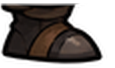
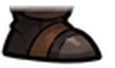
6 카르덴: 다리를 바짓단~부츠 바지 통으로(떨어져 보이지 않게), 찌르기 팔뚝을 윗팔 앞으로
- rig.js opt-in legs.tube: 엉덩이→발목 곧은 바지 통(굵기 고정) + 부츠, footReach: 동작 중 발이 다리 길이 밖이면 엉덩이 쪽으로
- 바지 통 그림(shinP)은 원화 바지 색으로, 부츠 위 잘려 온 네모 띠 정리
- drawStaff: 윗팔 < 팔뚝 < 어깨갑 (DHL 01:19 '손-팔꿈치를 어깨-팔꿈치보다 위로')
- 검사 16장면 통과

Claude-Session: https://claude.ai/code/session_015ytCrWApV92AMmnGMogyWc

Changed region(s): [[0.0, 0.0294, 0.6783, 0.2059]]

diff --git a/assets/rig/carden-rust/rig.def.js b/assets/rig/carden-rust/rig.def.js
@@ -1,1 +1,1 @@
-window.MR_RIG_DEFS=window.MR_RIG_DEFS||{};window.MR_RIG_DEFS['carden-rust']={"name":"carden-rust","version":"f2dde157","units":"rig px (reference x2)","refOrigin":[234.0,500.0],"refScale":2.0,"refLift":0,"parts":{"hips":{"src":"parts/hips.png","pivot":[73.0,14.1],"scale":2.3575},"pouch":{"src":"parts/pouch.png","pivot":[22.0,4.0],"scale":2.05},"torso":{"src":"parts/torso.png","pivot":[112.8,114.7],"scale":2.05},"head":{"src":"parts/head.png","pivot":[60.9,95.5],"scale":2.0581},"tuftL":{"src":"parts/tuftL.png","pivot":[102.1,48.4],"scale":2.05},"tuftR":{"src":"parts/tuftR.png","pivot":[8.4,31.0],"scale":2.05},"beard":{"src":"parts/beard.png","pivot":[80.5,12.0],"scale":2.0102},"armU":{"src":"parts/armU.png","pivot":[22.0,3.0],"scale":2.05},"armL":{"src":"parts/armL.png","pivot":[57.0,3.0],"scale":2.05,"alt":"armLF"},"pauldron":{"src":"parts/pauldron.png","pivot":[55.4,34.9],"scale":2.05},"armF":{"src":"parts/armF.png","pivot":[19.0,2.0],"scale":2.05},"foreF":{"src":"parts/foreF.png","pivot":[17.0,2.0],"scale":2.05},"fistF":{"src":"parts/fistF.png","pivot":[136.8,49.5],"scale":1.0},"weapon":{"src":"parts/weapon.png","pivot":[45.0,299.9],"scale":2.05,"tips":[[16.0,6.0],[58.0,6.0]]},"armLF":{"src":"parts/armLF.png","pivot":[46.2,10.6],"scale":2.05,"grip":[36.7,105.8]},"handL":{"src":"parts/handL.png","pivot":[280,146.5],"scale":0.5376,"shaftDir":[1,0],"wrist":[65,297],"toElbow":[-0.8,0.6]},"handR":{"src":"parts/handR.png","pivot":[191,241.5],"scale":0.5376,"shaftDir":[1,0],"wrist":[6,203],"toElbow":[-0.968,-0.252]},"armLS":{"src":"parts/armLS.png","pivot":[46.2,10.6],"scale":2.05,"noAxis":true,"grip":[40.0,61]},"thighN":{"src":"parts/thighN.png","pivot":[0,0],"scale":1},"thighF":{"src":"parts/thighF.png","pivot":[0,0],"scale":1},"shinN":{"src":"parts/shinN.png","pivot":[0,0],"scale":1},"shinF":{"src":"parts/shinF.png","pivot":[0,0],"scale":1},"boot":{"src":"parts/bootR.png","pivot":[42,31],"scale":1.12},"face_happy":{"src":"parts/face_happy.png","pivot":[19.9,76.5],"scale":2.0581},"face_angry":{"src":"parts/face_angry.png","pivot":[14.9,76.5],"scale":2.0581},"face_focus":{"src":"parts/face_focus.png","pivot":[19.9,76.5],"scale":2.0581},"face_sad":{"src":"parts/face_sad.png","pivot":[19.9,76.5],"scale":2.0581},"face_shout":{"src":"parts/face_shout.png","pivot":[19.9,76.5],"scale":2.0581},"skirt":{"src":"parts/pants.png","pivot":[208.0,0.0],"scale":1,"mesh":{"cols":8,"rows":6}},"shinR":{"src":"parts/shinR.png","pivot":[0,0],"scale":1}},"bones":[{"name":"root","parent":null,"pos":[0,0]},{"name":"hip","parent":"root","pos":[12.0,-230.0]},{"name":"skirt","parent":"hip","pos":[0.0,0.0],"part":"skirt"},{"name":"cape","parent":"hip","pos":[-4.0,-266.0]},{"name":"hips","parent":"hip","pos":[14.8,50.8],"rot":0.0698,"part":"hips"},{"name":"pouch","parent":"hip","pos":[-102.6,-25.7],"rot":0.192,"part":"pouch"},{"name":"torso","parent":"hip","pos":[0.0,0.0],"part":"torso"},{"name":"head","parent":"torso","pos":[-4.0,-266.0],"rot":-0.0335,"part":"head"},{"name":"tuftL","parent":"head","pos":[-60.8,-116.0],"rot":-0.0713,"part":"tuftL"},{"name":"tuftR","parent":"head","pos":[118.2,-132.0],"rot":0.1905,"part":"tuftR"},{"name":"beard","parent":"head","pos":[88.3,1.1],"rot":0.0198,"part":"beard"},{"name":"armU","parent":"torso","pos":[-150.0,-194.0],"rot":0.9969,"part":"armU"},{"name":"armL","parent":"armU","pos":[-0.0,47.3],"rot":-0.6478,"part":"armL"},{"name":"pauldron","parent":"torso","pos":[-150.0,-194.0],"rot":0.0698,"part":"pauldron"},{"name":"armF","parent":"torso","pos":[220.0,-170.0],"rot":0.4117,"part":"armF"},{"name":"foreF","parent":"armF","pos":[0.0,98.4],"rot":-2.4941,"part":"foreF"},{"name":"fistF","parent":"foreF","pos":[0.0,102.5],"part":"fistF"},{"name":"weapon","parent":"fistF","pos":[-12.8,80.0],"rot":2.0998,"part":"weapon"},{"name":"handL","parent":"weapon","pos":[0,0],"rot":-1.5882,"part":"handL"},{"name":"handR","parent":"weapon","pos":[0,0],"rot":-1.5882,"part":"handR"}],"legs":{"hip":[0,70],"thigh":80,"shin":78,"thighImg":{"part":"thighN","a":[40,4],"b":[36,55],"w":1.33},"shinImg":{"part":"shinN","a":[19,3],"b":[18,43],"w":1.385},"boot":{"part":"boot","sole":[[-37,28],[-30,33],[45,33],[65,22]],"ankleRange":[-0.85,0.95]},"near":{"x":-130,"shade":0,"thighImg":{"part":"thighN","a":[40,4],"b":[36,55],"w":0.001},"shinImg":{"part":"shinR","a":[26,0],"b":[26,72],"w":1.034}},"far":{"x":110,"shade":0.22,"thighImg":{"part":"thighF","a":[37,4],"b":[40,55],"w":0.001},"shinImg":{"part":"shinR","a":[26,0],"b":[26,72],"w":1.034}}},"draw":["cape","legFar","legNear","armF","skirt","torso","pouch","foreF","tuftL","tuftR","head","beard","headFront","weapon","fistF","handL","armU","armL","pauldron","handR"],"hidden":["handL","handR"],"faces":{"happy":"face_happy","angry":"face_angry","focus":"face_focus","sad":"face_sad","shout":"face_shout","effort":"face_angry"},"idleStance":{"near":-20,"far":-5},"gait":{"stance":0.18,"strideBase":20,"strideK":0.1,"hipBase":0,"bob":12,"lean":0.12,"waddle":0.05,"headBob":4,"kneeLift":0.25,"heelKick":0.05,"dropCap":20,"swingReach":0.05,"landAng":-0.08,"angK":0.45,"elbowRun":0.8},"weaponRaise":40,"releaseOpen":true,"dropLift":12,"follow":[{"bone":"pauldron","src":"armU","k":0.3}],"rearBlend":0.1,"runSlide":0,"upperRun":55,"hemGain":0.15,"seamInterior":true,"carryDrop":9,"weaponFloor":2,"runForeBend":-0.35,"wristRange":0.55,"runTilt":0,"bounce":[{"bone":"tuftL","stiff":160,"damp":7,"y":0.15,"rot":-0.006,"max":12},{"bone":"tuftR","stiff":170,"damp":7,"y":0.15,"rot":0.006,"max":12},{"bone":"beard","stiff":260,"damp":10,"y":0.1,"rot":0.002,"max":6}],"metrics":{"bodyHeight":714,"heightWithWeapon":1016,"note":"rig units. bodyHeight = 옆머리 위 ~ 발바닥(대기), 무기 제외","shaftWidth":52,"fistWidth":76,"forearmThickness":60},"ui":{"attack":"thrust","stillReady":{"t":0.22,"cut":0.36}},"note":"6 카르덴. 8 러스트 니콜(rust-fork-girl v15) 뼈대·동작 방식(봉 계열 기준). 다른 점: 짧은 다리·넓은 발, 긴 렌치 봉(쥔 손이 몸에서 멂), 옆머리 2·수염(머리 뼈, 출렁임), 고글(깜빡임 없음), 바지 엉덩이(hips) 조각","headFront":{"clip":[[0,0],[1,0],[0,1]],"facesFree":true},"hemRun":{"lift":10,"knee":0.5,"heel":0.3,"reach":0.2},"hemLimit":{"up":0.25,"x":0.3},"actions":{"thrust":{"kind":"staff","dur":0.8,"hitAt":0.3,"cancelAt":0.54,"w":[[0,0,"io"],[0.09,1],[0.62,1,"io"],[0.79,0]],"ang":[[0,0.05,"o"],[0.06,1.4,"io"],[0.12,1.57],[0.62,1.57,"io"],[0.71,0.85,"io"],[0.79,0.05]],"gx":[[0,200,"io"],[0.18,234.0625,"s"],[0.24,183.75],[0.3,294.375,"o"],[0.42,268.75,"io"],[0.62,250,"io"],[0.79,200]],"gy":[[0,-30,"io"],[0.03,-170,"io"],[0.18,-59.53125],[0.24,-57.5,"io"],[0.3,-76.5625],[0.42,-76.875,"io"],[0.71,-170,"io"],[0.79,-30]],"gap":[[0,180],[0.18,214.6875,"io"],[0.24,159.375,"io"],[0.3,199.375,"io"],[0.42,182.5,"io"],[0.79,180]],"sh":[[0,0,"io"],[0.15,1,"s"],[0.18,1.3046874999999998,"io"],[0.24,1.2953124999999999,"io"],[0.3,1.3,"io"],[0.42,1.2999999999999998,"io"],[0.62,1,"io"],[0.79,0]],"trail":[[0,0],[0.19,0,"lin"],[0.22,1],[0.34,1,"lin"],[0.41,0]],"shake":[[0,0],[0.3,0,"lin"],[0.31,1],[0.42,0]],"face":[[0,"focus"],[0.19,"angry"],[0.5,"focus"],[0.7,null]],"breath":[[0,0,"io"],[0.16,1,"o"],[0.3,-0.4,"io"],[0.48,-0.6,"io"],[0.8,0]],"hipX":[[0,0,"io"],[0.18,-13.776250000000005,"s"],[0.24,44.817499999999995,"io"],[0.3,170.00875],[0.42,75.185,"io"],[0.7,0]],"hipY":[[0,0,"io"],[0.18,-27.1875,"s"],[0.24,-6.875,"io"],[0.3,8.1875],[0.42,26.5625,"io"],[0.7,-1,"io"],[0.75,3,"io"],[0.8,0]],"lean":[[0,0,"io"],[0.18,-0.009062500000000005,"s"],[0.24,-0.047500000000000014,"io"],[0.3,0.08499999999999999],[0.42,0.09593750000000015,"io"],[0.7,0]],"head":[[0,0,"io"],[0.18,0.16625000000000004,"s"],[0.24,-0.002499999999999956,"io"],[0.3,-0.2778125],[0.42,-0.03828124999999995,"io"],[0.7,0]],"farDx":[[0,0,"io"],[0.18,-24,"s"],[0.24,60,"io"],[0.3,215],[0.46,215,"io"],[0.64,0]],"nearDx":[[0,0,"io"],[0.15,-10,"io"],[0.18,-30,"io"],[0.24,-10,"io"],[0.3,90],[0.36,90,"io"],[0.44,10],[0.62,10,"io"],[0.76,0]],"farLift":[[0,0],[0.18,0,"io"],[0.24,19.84,"io"],[0.3,0],[0.46,0,"io"],[0.55,14.88,"io"],[0.64,0]],"nearLift":[[0,0],[0.03,0,"io"],[0.09,9.92,"io"],[0.15,0],[0.22,0,"io"],[0.27,14,"io"],[0.3,0],[0.36,0,"io"],[0.4,10,"io"],[0.44,0],[0.62,0,"io"],[0.69,8.68,"io"],[0.76,0]],"farAng":[[0,0],[0.21,0,"io"],[0.27,-0.24,"io"],[0.33,0]],"nearAng":[[0,0],[0.21,0,"io"],[0.31,0.2],[0.44,0.18,"io"],[0.6,0]],"twist":[[0,0,"io"],[0.18,-0.7,"s"],[0.3,0.7],[0.42,0.6,"io"],[0.7,0]],"kneeOut":1}},"staffKey":{"sleeve":"armLS","shoulder":[15,10],"leadOn":0.12,"pauldronFollow":0.25,"pauldronRot":0.12,"upperLen":78,"fit":0.93,"fitMin":0.85,"fitMax":1.7,"foreFromHand":true,"foreK":1.25},"drawStaff":["cape","legFar","legNear","armF","skirt","torso","pouch","foreF","tuftL","tuftR","head","beard","headFront","weapon","armL","armU","pauldron","fistF","handL","handR"]};
+window.MR_RIG_DEFS=window.MR_RIG_DEFS||{};window.MR_RIG_DEFS['carden-rust']={"name":"carden-rust","version":"8c6f0c27","units":"rig px (reference x2)","refOrigin":[234.0,500.0],"refScale":2.0,"refLift":0,"parts":{"hips":{"src":"parts/hips.png","pivot":[73.0,14.1],"scale":2.3575},"pouch":{"src":"parts/pouch.png","pivot":[22.0,4.0],"scale":2.05},"torso":{"src":"parts/torso.png","pivot":[112.8,114.7],"scale":2.05},"head":{"src":"parts/head.png","pivot":[60.9,95.5],"scale":2.0581},"tuftL":{"src":"parts/tuftL.png","pivot":[102.1,48.4],"scale":2.05},"tuftR":{"src":"parts/tuftR.png","pivot":[8.4,31.0],"scale":2.05},"beard":{"src":"parts/beard.png","pivot":[80.5,12.0],"scale":2.0102},"armU":{"src":"parts/armU.png","pivot":[22.0,3.0],"scale":2.05},"armL":{"src":"parts/armL.png","pivot":[57.0,3.0],"scale":2.05,"alt":"armLF"},"pauldron":{"src":"parts/pauldron.png","pivot":[55.4,34.9],"scale":2.05},"armF":{"src":"parts/armF.png","pivot":[19.0,2.0],"scale":2.05},"foreF":{"src":"parts/foreF.png","pivot":[17.0,2.0],"scale":2.05},"fistF":{"src":"parts/fistF.png","pivot":[136.8,49.5],"scale":1.0},"weapon":{"src":"parts/weapon.png","pivot":[45.0,299.9],"scale":2.05,"tips":[[16.0,6.0],[58.0,6.0]]},"armLF":{"src":"parts/armLF.png","pivot":[46.2,10.6],"scale":2.05,"grip":[36.7,105.8]},"handL":{"src":"parts/handL.png","pivot":[280,146.5],"scale":0.5376,"shaftDir":[1,0],"wrist":[65,297],"toElbow":[-0.8,0.6]},"handR":{"src":"parts/handR.png","pivot":[191,241.5],"scale":0.5376,"shaftDir":[1,0],"wrist":[6,203],"toElbow":[-0.968,-0.252]},"armLS":{"src":"parts/armLS.png","pivot":[46.2,10.6],"scale":2.05,"noAxis":true,"grip":[40.0,61]},"thighN":{"src":"parts/thighN.png","pivot":[0,0],"scale":1},"thighF":{"src":"parts/thighF.png","pivot":[0,0],"scale":1},"shinN":{"src":"parts/shinN.png","pivot":[0,0],"scale":1},"shinF":{"src":"parts/shinF.png","pivot":[0,0],"scale":1},"boot":{"src":"parts/bootR.png","pivot":[42,31],"scale":1.12},"face_happy":{"src":"parts/face_happy.png","pivot":[19.9,76.5],"scale":2.0581},"face_angry":{"src":"parts/face_angry.png","pivot":[14.9,76.5],"scale":2.0581},"face_focus":{"src":"parts/face_focus.png","pivot":[19.9,76.5],"scale":2.0581},"face_sad":{"src":"parts/face_sad.png","pivot":[19.9,76.5],"scale":2.0581},"face_shout":{"src":"parts/face_shout.png","pivot":[19.9,76.5],"scale":2.0581},"skirt":{"src":"parts/pants.png","pivot":[208.0,0.0],"scale":1,"mesh":{"cols":8,"rows":6}},"shinR":{"src":"parts/shinR.png","pivot":[0,0],"scale":1},"shinP":{"src":"parts/shinP.png","pivot":[0,0],"scale":1}},"bones":[{"name":"root","parent":null,"pos":[0,0]},{"name":"hip","parent":"root","pos":[12.0,-230.0]},{"name":"skirt","parent":"hip","pos":[0.0,0.0],"part":"skirt"},{"name":"cape","parent":"hip","pos":[-4.0,-266.0]},{"name":"hips","parent":"hip","pos":[14.8,50.8],"rot":0.0698,"part":"hips"},{"name":"pouch","parent":"hip","pos":[-102.6,-25.7],"rot":0.192,"part":"pouch"},{"name":"torso","parent":"hip","pos":[0.0,0.0],"part":"torso"},{"name":"head","parent":"torso","pos":[-4.0,-266.0],"rot":-0.0335,"part":"head"},{"name":"tuftL","parent":"head","pos":[-60.8,-116.0],"rot":-0.0713,"part":"tuftL"},{"name":"tuftR","parent":"head","pos":[118.2,-132.0],"rot":0.1905,"part":"tuftR"},{"name":"beard","parent":"head","pos":[88.3,1.1],"rot":0.0198,"part":"beard"},{"name":"armU","parent":"torso","pos":[-150.0,-194.0],"rot":0.9969,"part":"armU"},{"name":"armL","parent":"armU","pos":[-0.0,47.3],"rot":-0.6478,"part":"armL"},{"name":"pauldron","parent":"torso","pos":[-150.0,-194.0],"rot":0.0698,"part":"pauldron"},{"name":"armF","parent":"torso","pos":[220.0,-170.0],"rot":0.4117,"part":"armF"},{"name":"foreF","parent":"armF","pos":[0.0,98.4],"rot":-2.4941,"part":"foreF"},{"name":"fistF","parent":"foreF","pos":[0.0,102.5],"part":"fistF"},{"name":"weapon","parent":"fistF","pos":[-12.8,80.0],"rot":2.0998,"part":"weapon"},{"name":"handL","parent":"weapon","pos":[0,0],"rot":-1.5882,"part":"handL"},{"name":"handR","parent":"weapon","pos":[0,0],"rot":-1.5882,"part":"handR"}],"legs":{"hip":[0,70],"thigh":80,"shin":78,"thighImg":{"part":"thighN","a":[40,4],"b":[36,55],"w":1.33},"shinImg":{"part":"shinN","a":[19,3],"b":[18,43],"w":1.385},"boot":{"part":"boot","sole":[[-37,28],[-30,33],[45,33],[65,22]],"ankleRange":[-0.85,0.95]},"near":{"x":-130,"shade":0,"thighImg":{"part":"thighN","a":[40,4],"b":[36,55],"w":0.001},"shinImg":{"part":"shinP","a":[52.5,0],"b":[52.5,106],"w":1.196}},"far":{"x":110,"shade":0.22,"thighImg":{"part":"thighF","a":[37,4],"b":[40,55],"w":0.001},"shinImg":{"part":"shinP","a":[52.5,0],"b":[52.5,106],"w":1.196}},"tube":{"part":"shinP","a":[52.5,0],"b":[52.5,106],"k":0.88}},"draw":["cape","legFar","legNear","armF","skirt","torso","pouch","foreF","tuftL","tuftR","head","beard","headFront","weapon","fistF","handL","armU","armL","pauldron","handR"],"hidden":["handL","handR"],"faces":{"happy":"face_happy","angry":"face_angry","focus":"face_focus","sad":"face_sad","shout":"face_shout","effort":"face_angry"},"idleStance":{"near":-20,"far":-5},"gait":{"stance":0.18,"strideBase":20,"strideK":0.1,"hipBase":0,"bob":12,"lean":0.12,"waddle":0.05,"headBob":4,"kneeLift":0.25,"heelKick":0.05,"dropCap":20,"swingReach":0.05,"landAng":-0.08,"angK":0.45,"elbowRun":0.8},"weaponRaise":40,"releaseOpen":true,"dropLift":12,"follow":[{"bone":"pauldron","src":"armU","k":0.3}],"rearBlend":0.1,"runSlide":0,"upperRun":55,"hemGain":0.15,"seamInterior":true,"carryDrop":9,"weaponFloor":2,"footReach":0.97,"runForeBend":-0.35,"wristRange":0.55,"runTilt":0,"bounce":[{"bone":"tuftL","stiff":160,"damp":7,"y":0.15,"rot":-0.006,"max":12},{"bone":"tuftR","stiff":170,"damp":7,"y":0.15,"rot":0.006,"max":12},{"bone":"beard","stiff":260,"damp":10,"y":0.1,"rot":0.002,"max":6}],"metrics":{"bodyHeight":714,"heightWithWeapon":1016,"note":"rig units. bodyHeight = 옆머리 위 ~ 발바닥(대기), 무기 제외","shaftWidth":52,"fistWidth":76,"forearmThickness":60},"ui":{"attack":"thrust","stillReady":{"t":0.22,"cut":0.36}},"note":"6 카르덴. 8 러스트 니콜(rust-fork-girl v15) 뼈대·동작 방식(봉 계열 기준). 다른 점: 짧은 다리·넓은 발, 긴 렌치 봉(쥔 손이 몸에서 멂), 옆머리 2·수염(머리 뼈, 출렁임), 고글(깜빡임 없음), 바지 엉덩이(hips) 조각","headFront":{"clip":[[0,0],[1,0],[0,1]],"facesFree":true},"hemRun":{"lift":10,"knee":0.5,"heel":0.3,"reach":0.2},"hemLimit":{"up":0.25,"x":0.3},"actions":{"thrust":{"kind":"staff","dur":0.8,"hitAt":0.3,"cancelAt":0.54,"w":[[0,0,"io"],[0.09,1],[0.62,1,"io"],[0.79,0]],"ang":[[0,0.05,"o"],[0.06,1.4,"io"],[0.12,1.57],[0.62,1.57,"io"],[0.71,0.85,"io"],[0.79,0.05]],"gx":[[0,200,"io"],[0.18,234.0625,"s"],[0.24,183.75],[0.3,294.375,"o"],[0.42,268.75,"io"],[0.62,250,"io"],[0.79,200]],"gy":[[0,-30,"io"],[0.03,-170,"io"],[0.18,-59.53125],[0.24,-57.5,"io"],[0.3,-76.5625],[0.42,-76.875,"io"],[0.71,-170,"io"],[0.79,-30]],"gap":[[0,180],[0.18,214.6875,"io"],[0.24,159.375,"io"],[0.3,199.375,"io"],[0.42,182.5,"io"],[0.79,180]],"sh":[[0,0,"io"],[0.15,1,"s"],[0.18,1.3046874999999998,"io"],[0.24,1.2953124999999999,"io"],[0.3,1.3,"io"],[0.42,1.2999999999999998,"io"],[0.62,1,"io"],[0.79,0]],"trail":[[0,0],[0.19,0,"lin"],[0.22,1],[0.34,1,"lin"],[0.41,0]],"shake":[[0,0],[0.3,0,"lin"],[0.31,1],[0.42,0]],"face":[[0,"focus"],[0.19,"angry"],[0.5,"focus"],[0.7,null]],"breath":[[0,0,"io"],[0.16,1,"o"],[0.3,-0.4,"io"],[0.48,-0.6,"io"],[0.8,0]],"hipX":[[0,0,"io"],[0.18,-13.776250000000005,"s"],[0.24,44.817499999999995,"io"],[0.3,170.00875],[0.42,75.185,"io"],[0.7,0]],"hipY":[[0,0,"io"],[0.18,-27.1875,"s"],[0.24,-6.875,"io"],[0.3,8.1875],[0.42,26.5625,"io"],[0.7,-1,"io"],[0.75,3,"io"],[0.8,0]],"lean":[[0,0,"io"],[0.18,-0.009062500000000005,"s"],[0.24,-0.047500000000000014,"io"],[0.3,0.08499999999999999],[0.42,0.09593750000000015,"io"],[0.7,0]],"head":[[0,0,"io"],[0.18,0.16625000000000004,"s"],[0.24,-0.002499999999999956,"io"],[0.3,-0.2778125],[0.42,-0.03828124999999995,"io"],[0.7,0]],"farDx":[[0,0,"io"],[0.18,-24,"s"],[0.24,60,"io"],[0.3,215],[0.46,215,"io"],[0.64,0]],"nearDx":[[0,0,"io"],[0.15,-10,"io"],[0.18,-30,"io"],[0.24,-10,"io"],[0.3,90],[0.36,90,"io"],[0.44,10],[0.62,10,"io"],[0.76,0]],"farLift":[[0,0],[0.18,0,"io"],[0.24,19.84,"io"],[0.3,0],[0.46,0,"io"],[0.55,14.88,"io"],[0.64,0]],"nearLift":[[0,0],[0.03,0,"io"],[0.09,9.92,"io"],[0.15,0],[0.22,0,"io"],[0.27,14,"io"],[0.3,0],[0.36,0,"io"],[0.4,10,"io"],[0.44,0],[0.62,0,"io"],[0.69,8.68,"io"],[0.76,0]],"farAng":[[0,0],[0.21,0,"io"],[0.27,-0.24,"io"],[0.33,0]],"nearAng":[[0,0],[0.21,0,"io"],[0.31,0.2],[0.44,0.18,"io"],[0.6,0]],"twist":[[0,0,"io"],[0.18,-0.7,"s"],[0.3,0.7],[0.42,0.6,"io"],[0.7,0]],"kneeOut":1}},"staffKey":{"sleeve":"armLS","shoulder":[15,10],"leadOn":0.12,"pauldronFollow":0.25,"pauldronRot":0.12,"upperLen":78,"fit":0.93,"fitMin":0.85,"fitMax":1.7,"foreFromHand":true,"foreK":1.25},"drawStaff":["cape","legFar","legNear","armF","skirt","torso","pouch","foreF","tuftL","tuftR","head","beard","headFront","weapon","armU","armL","pauldron","fistF","handL","handR"]};

diff --git a/assets/rig/rig.js b/assets/rig/rig.js
@@ -150,6 +150,10 @@
       // boot inside/back rim → shin (enters the opening) → boot front (its rim line overlaps the shin) → thigh
       // legs.thighFirst (opt-in, 알론소 v4): 허벅지를 먼저 → 무릎 보호대가 붙은 정강이 그림이 무릎 위를 덮음
       // S.thighImg / S.shinImg (opt-in): 가까운·먼 다리에 다른 그림. L.kneeImg / S.kneeImg (opt-in): 무릎 덮개(보호대)를 무릎 위에 따로 — 허벅지·정강이 가운데 각도
+      if (L.tube) {   // legs.tube (opt-in, 6 카르덴 10-18): 다리 = 엉덩이→발목 곧은 바지 통 하나(무릎에서 꺾이지 않음, 굵기 고정) + 부츠 — 바지가 몸처럼 고정인 캐릭터에서 무릎이 바지 밖으로 튀어나와 '떨어진 다리'로 보이던 것
+        const T_ = L.tube, im_ = this.images[T_.part], il_ = Math.hypot(T_.b[0] - T_.a[0], T_.b[1] - T_.a[1]), wl_ = Math.hypot(P.ankle[0] - P.hip[0], P.ankle[1] - P.hip[1]) || 1;
+        set(ctx, this._seg(R, T_.a, T_.b, P.hip, P.ankle, (T_.k || 1) * il_ / wl_)); ctx.drawImage(im_, 0, 0); boot(bd.part);
+        if (useF) ctx.filter = "none"; return }
       const th = S.thighImg || L.thighImg, thigh = () => { set(ctx, this._seg(R, th.a, th.b, P.hip, P.knee, th.w)); ctx.drawImage(this.images[th.part], 0, 0) };
       if (L.thighFirst) thigh();
       if (bd.back) boot(bd.back);
@@ -1008,6 +1012,10 @@
           need = Math.max(need, nd_) }
         need = Math.min(need, this.G.dropCap); this.hipDrop = Math.max(need, damp(this.hipDrop || 0, need, 10, dt));   // sinks at once, rises back gently
         if (this.hipDrop > .01) { b.hip.ay += this.hipDrop; rig.compute() } }
+      // footReach (opt-in, 6 카르덴 10-18): 동작 중 발이 다리 길이 밖이면(런지 뒤 몸이 돌아올 때) 발을 엉덩이 쪽으로 당김 — 다리와 부츠가 떨어져 보이지 않게
+      if (act && rig.def.footReach) { const Lm_ = (L.thigh + L.shin) * rig.def.footReach;
+        for (const side of ["near", "far"]) { const f = this.ft[side], H = apply(b.hip.m, L.hip[0] + (L[side].hipX ?? L[side].x), L.hip[1]), Ak = this._ankleFor(f.x, f.lift, f.ang), dx = Ak[0] - H[0], dy = Ak[1] - H[1];
+          if (Math.hypot(dx, dy) > Lm_ && Math.abs(dy) < Lm_) { const nx = Math.sign(dx) * Math.sqrt(Lm_ * Lm_ - dy * dy); f.x += nx - dx } } }
       if (rig.def.spearGrip && !(act && D.kind === "wave" && rig.def.waveImg)) { this.wl = wl; this._spearArms(D, at, T) }   // 창 먼저 + 두 손 자루 위 (반응 동작 중에도)
       else if (act && D.kind === "wave" && !rig.def.waveImg) { }   // 손 흔들기 그림이 없는 캐릭터: 몸·표정 트랙만 (반응 동작)
       else if (act && D.kind === "wave") this._waveArms(D, at, T);

diff --git a/assets/rig/carden-rust/source/pants_ref.py b/assets/rig/carden-rust/source/pants_ref.py
@@ -31,6 +31,8 @@ json.dump({'pivot': piv, 'size': [a.shape[1], a.shape[0]], 'from': 'ref1024'}, o
 bx0, by0, bx1, by1 = 543, 924, 658, 992
 b = R[by0:by1, bx0:bx1].copy(); hh, ww = b.shape[:2]; yy, xx = np.mgrid[0:hh, 0:ww]
 b[..., 3] *= np.clip((yy - 2) / 4, 0, 1)                       # 위 테(바짓단과 이어지는 곳) 부드럽게
+if True:   # 위 12줄은 부츠 목 폭(그림 x 8~78)만 남기고 흐리게 — 원화에서 함께 잘려 온 바짓단 끝·가죽 띠가 네모 상자로 보였음(10-18 01:19, 바지 통 정강이가 그 자리를 이음)
+    top_ = np.clip((yy - 4) / 8, 0, 1); side_ = np.clip(np.minimum(xx - 8, 78 - xx) / 4, 0, 1); keep_ = np.where(yy < 18, np.minimum(top_, side_), 1.0); b[..., 3] *= keep_
 Image.fromarray(b.astype(np.uint8), 'RGBA').save(os.path.join(HERE, 'parts_work', 'bootR.png'))
 s = R[930:948, 560:612].copy(); s = np.concatenate([s] * 4, 0)        # 부츠 목(어두운 가죽) 줄을 이어 붙여 정강이 — 위 절반은 부드럽게 사라짐(무릎은 바지 속)
 hh_, ww_ = s.shape[:2]; yy_, xx_ = np.mgrid[0:hh_, 0:ww_]; s[..., 3] *= np.clip((yy_ - 2) / 10, 0, 1)
@@ -40,3 +42,18 @@ Image.fromarray(s.astype(np.uint8), 'RGBA').save(os.path.join(HERE, 'parts_work'
 json.dump({'pivot': [round(waist[0] - x0 - ox, 1), round(waist[1] - y0 - oy, 1)], 'size': [a.shape[1], a.shape[0]], 'from': 'ref1024',
            'boot': {'ankle': [585 - bx0, 955 - by0], 'sole': [[-37, 28], [-30, 33], [45, 33], [65, 22]]}, 'shin': {'a': [26, 0], 'b': [26, 72]}},
           open(os.path.join(HERE, 'pants.json'), 'w'))
+# 바지 정강이 통(shinP, DHL 10-18 01:19 '다리가 하체와 붙게, 분리돼서 유령처럼 되지 않게'): 정강이를 가는 가죽 띠 대신 바지 천 통으로
+# — 바짓단 밑에서 부츠까지 바지가 이어져 보임(런지로 발이 멀리 나가도 떨어져 보이지 않음). 색 = 원화 바지(중간 62,54,51 · 그림자 · 테두리)
+TW, TH = 105, 110
+tub = np.zeros((TH, TW, 4), np.float32); xs_ = (np.arange(TW) + .5) / TW
+base = np.array([62, 54, 51], np.float32); dark = np.array([44, 38, 36], np.float32); hi = np.array([74, 65, 61], np.float32); ol = np.array([24, 19, 19], np.float32)
+edge = np.clip(1 - np.minimum(xs_, 1 - xs_) / .2, 0, 1) ** 1.5; hl = np.exp(-((xs_ - .36) / .1) ** 2) * .8
+col = base[None] * (1 - edge[:, None]) + dark[None] * edge[:, None]; col = col * (1 - hl[:, None]) + hi[None] * hl[:, None]
+rng = np.random.default_rng(6); nz = rng.normal(0, 2.2, (TH, TW, 1)).astype(np.float32)
+tub[..., :3] = col[None] + nz
+xo = np.arange(TW); olm = (xo < 4) | (xo >= TW - 4); tub[:, olm, :3] = ol
+yy2 = np.arange(TH)[:, None]; hw2 = (TW / 2 + 3) * np.sqrt(np.clip((yy2 + 6) / 30, 0, 1))   # +3: 양옆 테두리까지 다 보이게
+tub[..., 3] = 255 * np.clip((yy2 - 2) / 10, 0, 1) * np.clip((TH - 1 - yy2) / 6, 0, 1) * np.clip((hw2 - np.abs(xo[None] + .5 - TW / 2)) / 3, 0, 1)   # 아래 끝도 흐리게(부츠 속에서 끝남)
+Image.fromarray(np.clip(tub, 0, 255).astype(np.uint8), 'RGBA').save(os.path.join(HERE, 'parts_work', 'shinP.png'))
+PJ_ = json.load(open(os.path.join(HERE, 'pants.json'))); PJ_['shinP'] = {'a': [TW / 2, 0], 'b': [TW / 2, TH - 4]}; json.dump(PJ_, open(os.path.join(HERE, 'pants.json'), 'w'))
+print('shinP', TW, TH)
